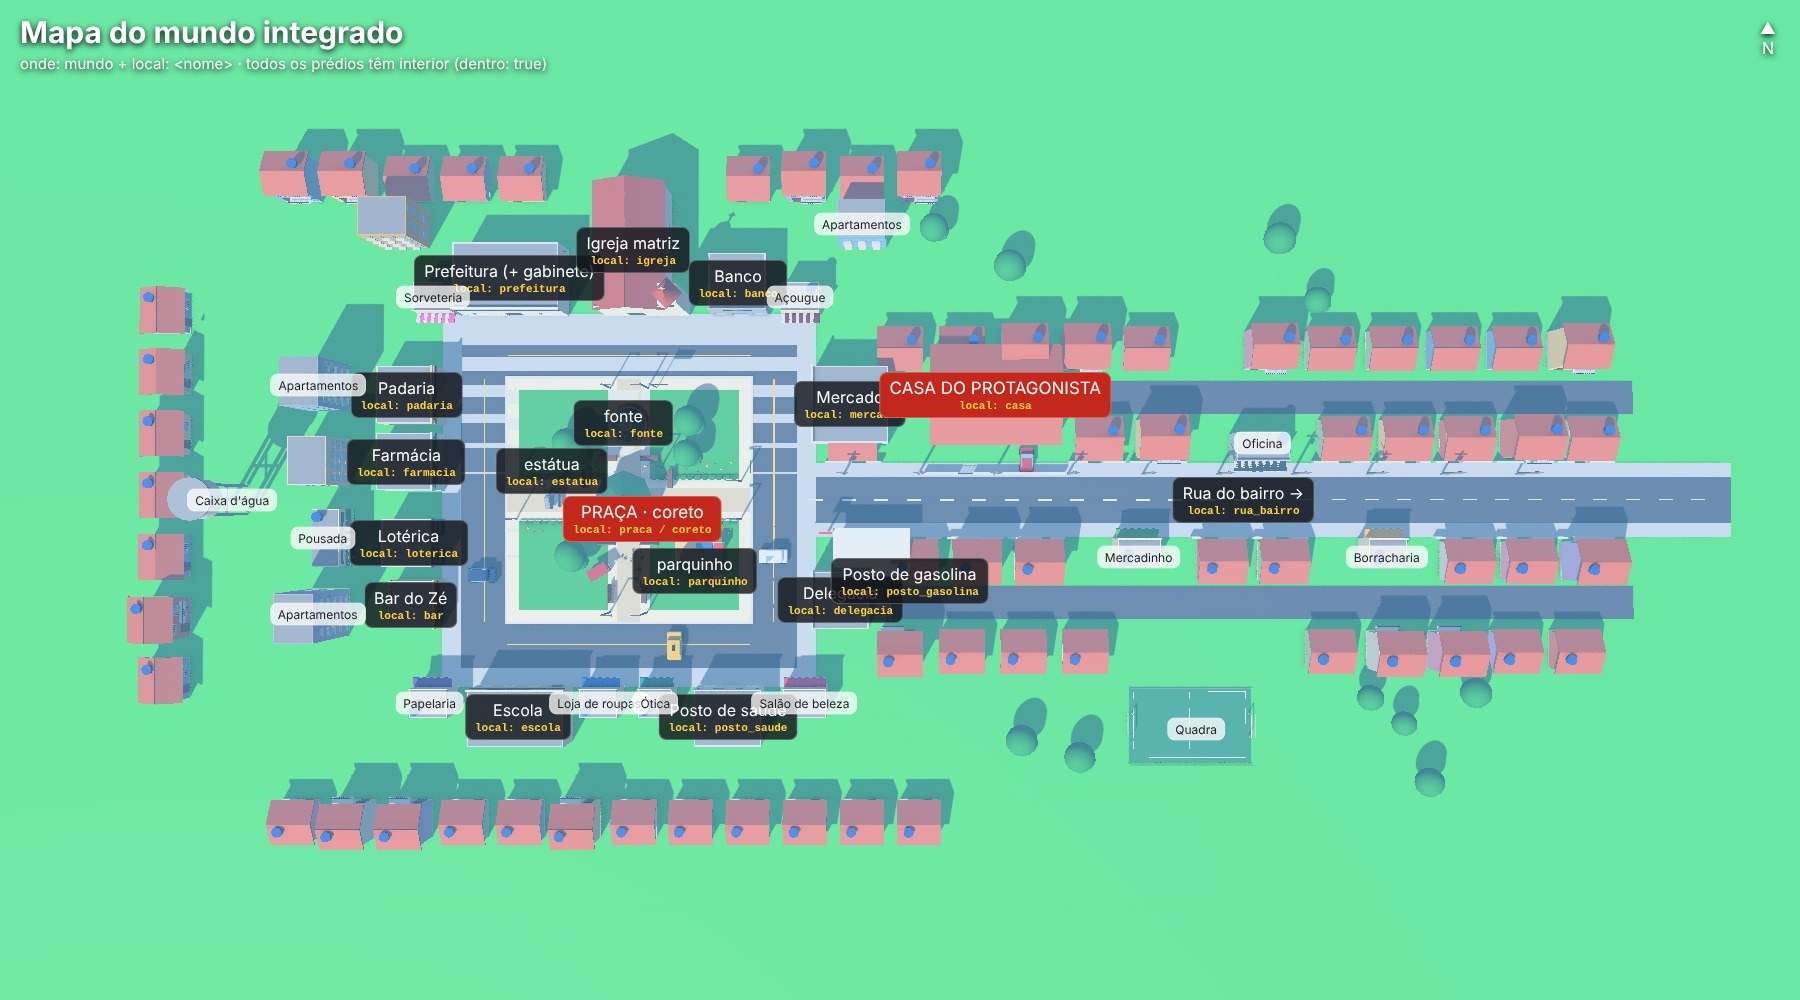
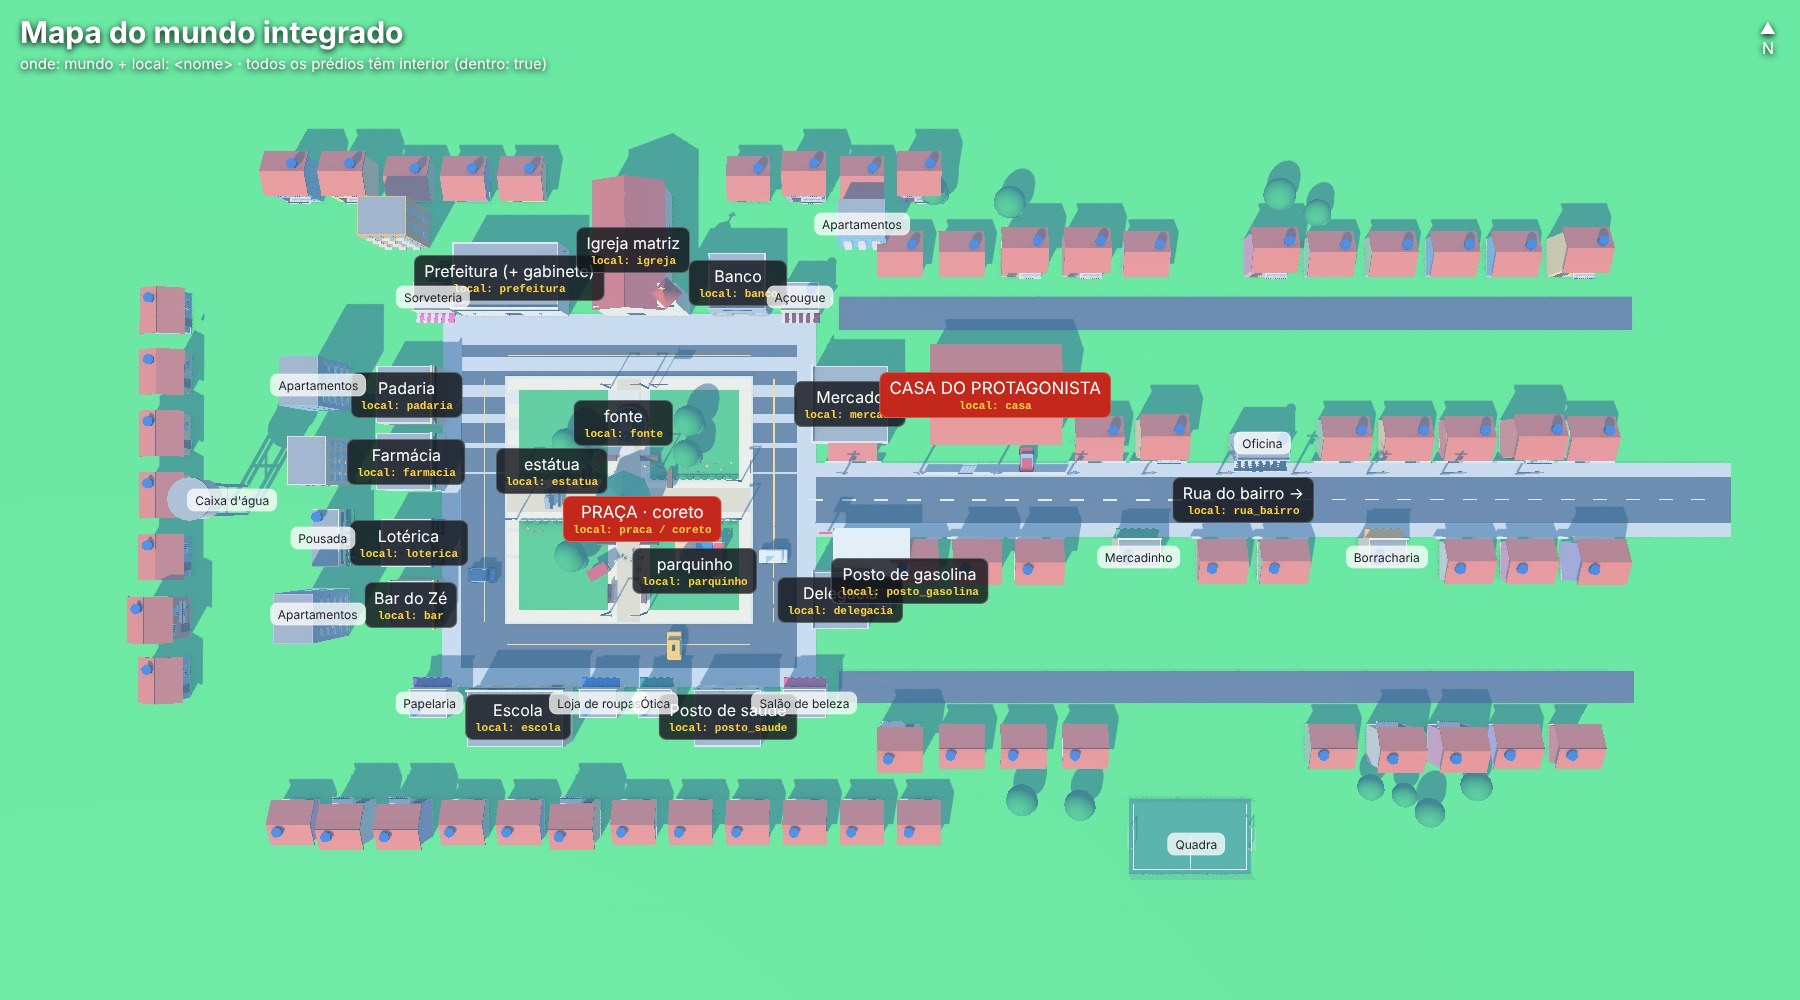
Remove casas e rua que atravessavam a casa do protagonista
A casa do protagonista é mais funda que as outras: a segunda fileira do
bairro e as ruas paralelas foram afastadas (z ±52 e ±40) e a quadra
foi para z 72, deixando o terreno da casa livre.

Claude-Session: https://claude.ai/code/session_01L9V3oGiK3wXogPFqZJY4DD

Changed region(s): [[0.4667, 0.558, 0.9333, 0.899], [0.4667, 0.155, 0.9333, 0.434]]

diff --git a/src/motor/mundo.js b/src/motor/mundo.js
@@ -273,7 +273,7 @@ export const EXTRAS_MAPA = [
   { nome: 'Mercadinho', x: 108, z: 12 },
   { nome: 'Oficina', x: 134, z: -12 },
   { nome: 'Borracharia', x: 160, z: 12 },
-  { nome: 'Quadra', x: 120, z: 48 },
+  { nome: 'Quadra', x: 120, z: 72 },
 ];
 function povoar(g, n, r) {
   const marca = () => {};   // posições dos nomes no mapa ficam em EXTRAS_MAPA
@@ -296,10 +296,10 @@ function povoar(g, n, r) {
   loja(g, 108, 8.1, 180, 'MERCADINHO', '#43a047', 9, n); marca('Mercadinho', 108, 12);
   loja(g, 134, -8.1, 0, 'OFICINA', '#3a3d44', 11, n, '#cfd3da'); por(g, 'carro', { cor: '#1d3b72' }, [134, 0.2, -8.6], 90, 0.9); marca('Oficina', 134, -12);
   loja(g, 160, 8.1, 180, 'BORRACHARIA', '#f5b800', 8, n); for (let i = 0; i < 3; i++) g.add(cilindro(0.9, 0.9, 0.6, '#1b1b1b', { pos: [163.5, 0.5 + i * 0.62, 7.4], seg: 14 })); marca('Borracharia', 160, 12);
-  for (let x = 52; x <= 206; x += 13) for (const lado of [-1, 1]) if (r() < 0.8) por(g, r() < 0.35 ? 'sobrado' : 'casa_br', { cor: r.item(['#8fc1e3', '#f2a7c3', '#b7e1a1', '#e9e6dc', '#f28b5b', '#c9b2e8', '#ffe08a']), noite: n, largura: 8.5 }, [x + 6, 0, lado * 32], lado > 0 ? 180 : 0);
-  for (const lado of [-1, 1]) g.add(caixa(170, 0.2, 7, '#4f5361', { pos: [130, 0.11, lado * 22] }));   // ruas paralelas do bairro
-  quadra(g, 120, 48); marca('Quadra', 120, 48);
-  for (let i = 0; i < 10; i++) por(g, 'arvore', { tam: r.entre(0.9, 1.3) }, [r.entre(55, 200), 0, r.item([-1, 1]) * r.entre(40, 60)]);
+  for (let x = 52; x <= 206; x += 13) for (const lado of [-1, 1]) if (r() < 0.8) por(g, r() < 0.35 ? 'sobrado' : 'casa_br', { cor: r.item(['#8fc1e3', '#f2a7c3', '#b7e1a1', '#e9e6dc', '#f28b5b', '#c9b2e8', '#ffe08a']), noite: n, largura: 8.5 }, [x + 6, 0, lado * 52], lado > 0 ? 180 : 0);
+  for (const lado of [-1, 1]) g.add(caixa(170, 0.2, 7, '#4f5361', { pos: [130, 0.11, lado * 40] }));   // ruas paralelas (longe o bastante da casa do protagonista, que é funda)
+  quadra(g, 120, 72);
+  for (let i = 0; i < 10; i++) por(g, 'arvore', { tam: r.entre(0.9, 1.3) }, [r.entre(55, 200), 0, r.item([-1, 1]) * r.entre(60, 66)]);
 }
 
 /**
